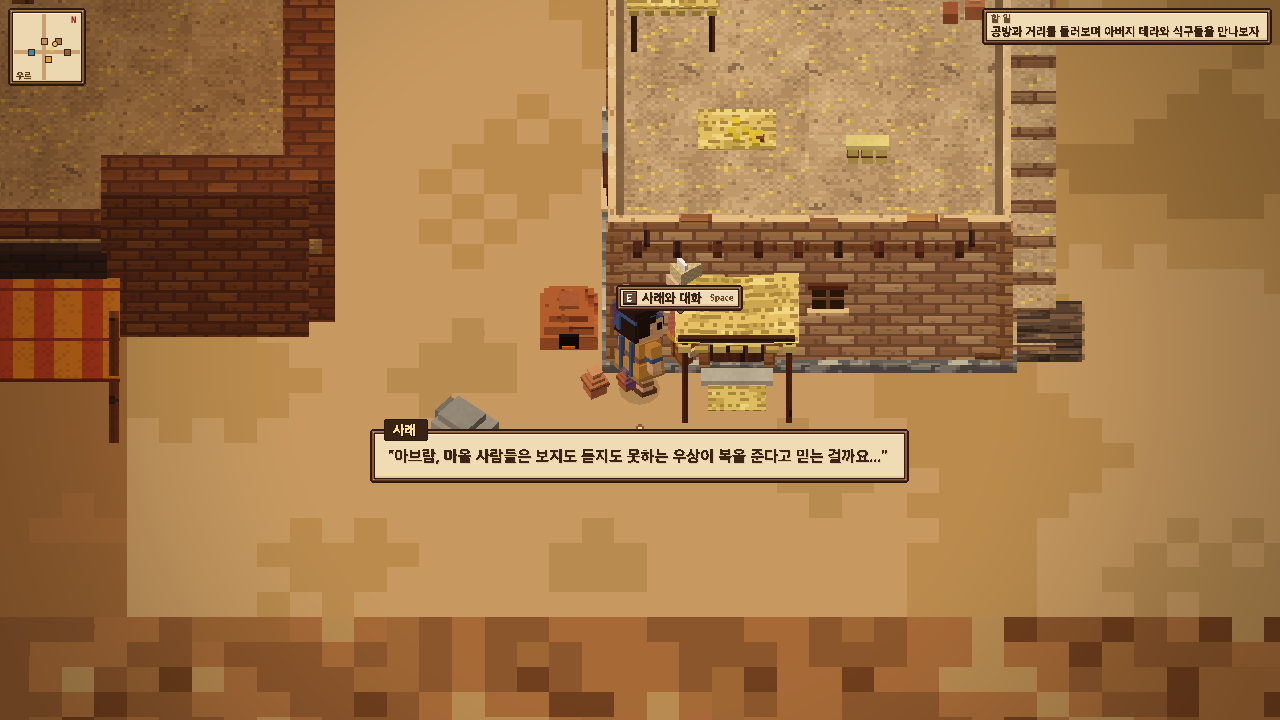
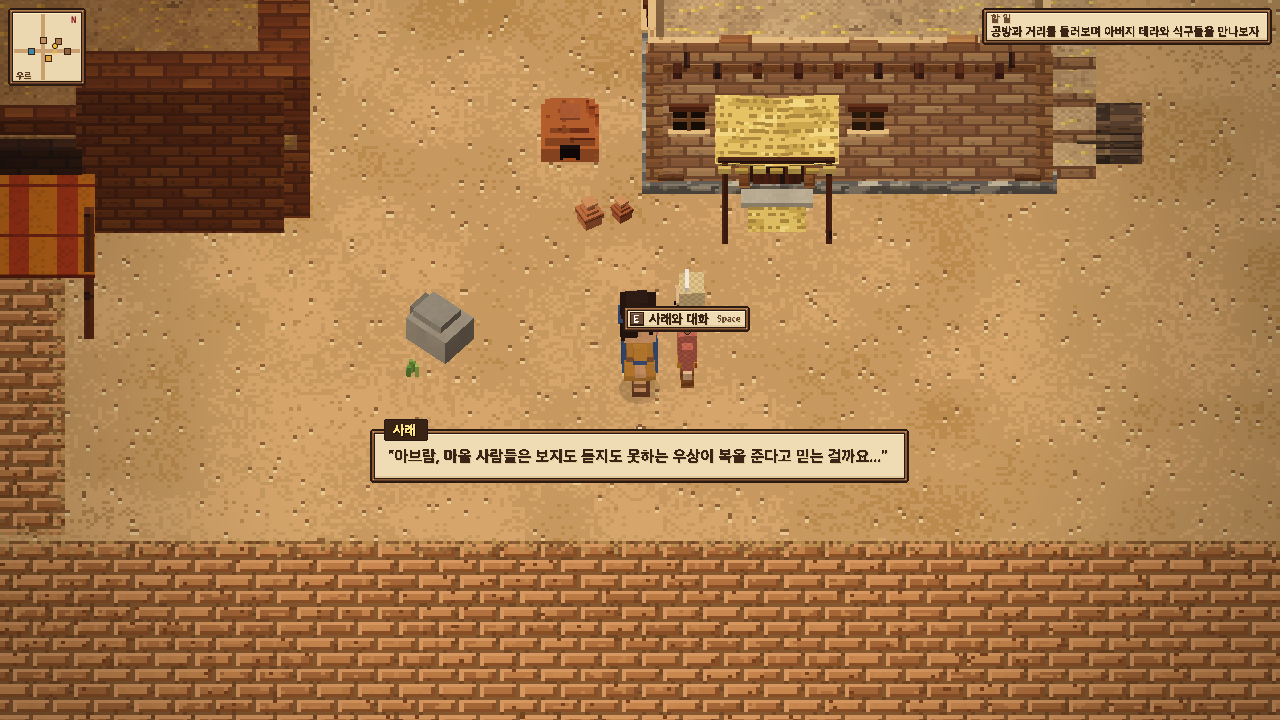
fix(world): 고해상도 TD=16 지면 텍스처 적용 및 건물-NPC 간격 분리

diff --git a/src/world/stages/ur.ts b/src/world/stages/ur.ts
@@ -25,13 +25,13 @@ export interface UrStage {
   actors: Actor[];
 }
 
-const UR_HALF = 48; // 96x96 광활한 고대 수메르 대지
+const UR_HALF = 40; // 80x80 메인 시가지 고해상도 지면 (TD=16 기준 1280x1280 노아 정통 고해상도 픽셀 지면!)
 
-/** 우르의 자연스러운 모래흙, 벽돌길, 자갈 지면 텍스처 평면 생성 */
+/** 우르의 고해상도 벽돌길, 사막 모래흙, 오아시스 초목 지면 텍스처 평면 생성 (노아 TD=16 벤치마크) */
 function buildUrGround(): THREE.Mesh {
-  const N = UR_HALF * 2 * 2; // 192x192 텍셀 해상도
+  const N = UR_HALF * 2 * TD; // 1280x1280 노아 정통 고해상도 지면!
   const px = new Px(N, N);
-  const toW = (idx: number) => -UR_HALF + (idx + 0.5) * (UR_HALF * 2 / N);
+  const toW = (idx: number) => -UR_HALF + (idx + 0.5) / TD;
   const reg = PAL_REGION.MESOPOTAMIA;
 
   for (let j = 0; j < N; j++) {
@@ -39,45 +39,92 @@ function buildUrGround(): THREE.Mesh {
     for (let i = 0; i < N; i++) {
       const x = toW(i);
 
-      // 기본 메소포타미아 황토/사막 모래 베이스
-      const nBase = fbm(x / 4, z / 4, 301, 2);
-      let c = ditherPick([reg.ground, 0xc49c68, 0xb88e54, 0xa57c44], nBase, i, j, 0.4);
+      // 1. 기본 대지: 메소포타미아 황토와 고운 사막 모래 (노아의 grassColor 기법을 사막 흙에 적용)
+      const nBase = fbm(x / 10, z / 10, 301, 2) * 0.45 + valueNoise(i / 16, j / 16, 302) * 0.35 + hash2(i, j, 303) * 0.2;
+      let c = ditherPick([reg.ground, 0xd2a874, 0xc49c68, 0xb88e54, 0xa87d46], nBase, i, j, 0.32);
 
-      // 도로 구역 (중앙 동서 도로: z: 1 ~ 6, x: -30 ~ 30)
-      if (z >= 1.0 && z <= 6.2 && Math.abs(x) < 32) {
-        const nRoad = valueNoise(i / 2, j / 2, 401);
-        c = ditherPick([reg.brick, 0x8a5830, 0xa46c3c, reg.ground], nRoad, i, j, 0.2);
-        // 벽돌 틈새 디테일
-        if (hash2(i, j, 11) < 0.08) c = 0x6e4020;
+      // 모래알 및 미세 자갈 스펙클
+      const hGrit = hash2(i, j, 305);
+      if (hGrit < 0.012) c = 0x8a623c;
+      else if (hash2(i, j - 1, 305) < 0.012) c = 0xe4cc9c;
+
+      // 2. 동서 대로 (z: 1.5 ~ 6.0, |x| < 26) 및 공방 진입로 (|x| < 2.6, z: -8.0 ~ 1.5)
+      const isEastWestRoad = z >= 1.5 && z <= 5.8 && Math.abs(x) < 25.5;
+      const isWorkshopPath = Math.abs(x) < 2.5 && z >= -7.5 && z <= 1.5;
+      const isRoadArea = isEastWestRoad || isWorkshopPath;
+
+      if (isRoadArea) {
+        const roadEdgeDist = isEastWestRoad
+          ? Math.min(z - 1.5, 5.8 - z, 25.5 - Math.abs(x))
+          : Math.min(x - (-2.5), 2.5 - x, z - (-7.5), 1.5 - z);
+
+        if (roadEdgeDist > 0.08) {
+          // 벽돌 패턴 (cellW: 10, cellH: 5 텍셀 = 가로 62cm, 세로 31cm 고대 소성 벽돌)
+          const cellW = 10, cellH = 5;
+          const row = Math.floor(j / cellH);
+          const shiftX = (row % 2) * (cellW / 2);
+          const col = Math.floor((i + shiftX) / cellW);
+          const li = (i + shiftX) % cellW;
+          const lj = j % cellH;
+
+          // 벽돌 틈새 줄눈
+          if (li === 0 || lj === 0) {
+            c = hash2(i, j, 411) < 0.2 ? 0x6e4828 : 0x845a34;
+          } else {
+            // 벽돌 색상 변량 (가마에서 구워진 벽돌마다 다른 황토/테라코타 톤)
+            const brickTones = [0xb87c4a, 0xae7244, 0xc68a56, 0xa2683c];
+            const tone = brickTones[Math.floor(hash2(col, row, 412) * brickTones.length)];
+            // 입체감 베벨 (상/좌측 밝음, 하/우측 어두움)
+            if (li === 1 || lj === 1) c = 0xd49a68;
+            else if (li === cellW - 1 || lj === cellH - 1) c = 0x86502a;
+            else {
+              const nBrick = valueNoise(i / 2, j / 2, 413);
+              c = nBrick > 0.65 ? 0xc28652 : tone;
+            }
+            if (hash2(i, j, 414) < 0.025) c = 0x764220; // 흠집
+          }
+
+          // 도로 가장자리 풍화 마모
+          if (roadEdgeDist < 0.35 && hash2(i, j, 415) < (0.35 - roadEdgeDist) * 2.2) {
+            c = ditherPick([reg.ground, 0xb88e54, 0x8a623c], hash2(i, j, 416), i, j);
+          }
+        }
       }
 
-      // 공방 진입로 (x: -3 ~ 3, z: -8 ~ 1)
-      if (Math.abs(x) < 3.2 && z >= -8.0 && z <= 1.0) {
-        const nPath = valueNoise(i / 2, j / 2, 419);
-        c = ditherPick([reg.brick, 0x9c6838, 0xa46c3c], nPath, i, j, 0.3);
+      // 3. 서쪽 우물 광장 (x: -12.0, z: 3.5): 방사형 포석 + 오아시스 초목
+      const dWell = Math.hypot(x - (-12.0), z - 3.5);
+      if (dWell < 5.4) {
+        if (dWell < 2.6) {
+          // 우물 바로 주변: 젖은 판석 및 물기 머금은 바닥
+          const cellP = 8;
+          const cxP = Math.floor(i / cellP), cyP = Math.floor(j / cellP);
+          const liP = i % cellP, ljP = j % cellP;
+          if (liP === 0 || ljP === 0) {
+            c = 0x4a3a2a; // 젖은 흙 줄눈
+          } else {
+            const stoneTones = [0x9a9484, 0xa8a090, 0x8c8676, 0xb2aa98];
+            c = stoneTones[Math.floor(hash2(cxP, cyP, 511) * 4)];
+            if (liP === 1 || ljP === 1) c = 0xc0b8a4;
+            if (hash2(i, j, 512) < 0.08) c = PAL.water[0]; // 튄 물방울
+          }
+        } else {
+          // 우물 바깥 잔디 및 대추야자 잎 그늘 (노아의 grassColor)
+          const nGrass = fbm(x * 2, z * 2, 521, 2);
+          if (nGrass > 0.40) {
+            c = ditherPick([PAL.grass[2], PAL.grass[3], PAL.dryGrass[1], reg.ground], nGrass, i, j, 0.4);
+            if (hash2(i, j, 523) < 0.02) c = PAL.grass[4]; // 풀싹
+          }
+        }
       }
 
-      // 서쪽 우물 광장 (x: -12, z: 3.5, r: 4.5)
-      const dWell = Math.hypot(x - (-12), z - 3.5);
-      if (dWell < 4.8) {
-        const nWell = fbm(x * 2, z * 2, 501, 2);
-        // 물기 머금은 짙은 흙과 작은 오아시스 잔디 흔적
-        c = dWell < 2.8
-          ? ditherPick([PAL.dirt[0], PAL.dirt[1], PAL.water[0]], nWell, i, j, 0.5)
-          : ditherPick([reg.ground, PAL.dryGrass[1], PAL.grass[2]], nWell, i, j, 0.4);
-      }
-
-      // 남쪽 시장 광장 (x: 4, z: 12)
-      if (x >= -4 && x <= 16 && z >= 8 && z <= 16) {
+      // 4. 남쪽 장터 (x: -2 ~ 12, z: 8.5 ~ 13.5): 단단히 다져진 마당 + 짚과 향신료 흔적
+      if (x >= -3.5 && x <= 13.5 && z >= 8.2 && z <= 13.5) {
         const nMarket = fbm(x * 1.5, z * 1.5, 601, 2);
-        c = ditherPick([0xc89868, reg.brick, PAL.dirt[2], 0xdeaa74], nMarket, i, j, 0.35);
-      }
-
-      // 외곽 거친 자갈과 바위 지대 노이즈
-      const dCenter = Math.hypot(x, z);
-      if (dCenter > 28) {
-        const nWild = fbm(x / 6, z / 6, 701, 2);
-        if (nWild > 0.6) c = hash2(i, j, 99) < 0.4 ? PAL.stone[1] : 0x8a623c;
+        if (nMarket > 0.48) {
+          c = ditherPick([0xc29462, 0xd4a872, 0xaf7e4e, 0x9e6e40], nMarket, i, j, 0.35);
+          if (hash2(i, j, 603) < 0.03) c = PAL.straw[1]; // 흩뿌려진 짚
+          if (hash2(i, j, 604) < 0.015) c = 0xa43828; // 석류/향신료 얼룩
+        }
       }
 
       px.set(i, j, c);
@@ -202,19 +249,19 @@ export function buildUrStage(): UrStage {
   col.addBox(WX, WZ - 2.2, 1.6, 1.4);
 
   // ─────────────────────────────────────────────────────────────
-  // 5. 이웃 가옥들 및 골목길 (밀도 높은 고대 도시감)
+  // 5. 이웃 가옥들 및 골목길 (밀도 높은 고대 도시감, 가옥-NPC 충분한 간격 확보)
   // ─────────────────────────────────────────────────────────────
-  // 동쪽 이웃집 1 (데라 가족 안채: x: 13.5, z: -6.5)
-  P.house(b, col, 13.5, -6.5, {
+  // 동쪽 이웃집 1 (데라 가족 안채: x: 14.5, z: -8.0, 앞마당을 넉넉히 비워 사래 배치)
+  P.house(b, col, 14.5, -8.0, {
     w: 6.2, d: 5.0, h: 3.0,
     style: 'brick',
     awning: 'stripeRed',
     stairs: 1,
   });
-  P.oven(b, col, 9.8, -4.8);
-  P.woodpile(b, col, 17.2, -4.6, Math.PI / 2);
-  P.pot(b, 10.2, -3.5, 0.9);
-  P.pot(b, 10.7, -3.6, 0.7, PAL.clay[1]);
+  P.oven(b, col, 10.2, -6.5);
+  P.woodpile(b, col, 18.5, -6.5, Math.PI / 2);
+  P.pot(b, 10.5, -4.8, 0.9);
+  P.pot(b, 11.0, -4.9, 0.7, PAL.clay[1]);
 
   // 서쪽 가옥 (x: -17.5, z: -5.5)
   P.house(b, col, -17.5, -5.5, {
@@ -241,24 +288,23 @@ export function buildUrStage(): UrStage {
   P.rock(b, col, -7.5, 1.2, 0.7);
   P.rock(b, col, 8.2, -2.5, 0.8);
   P.rock(b, col, -18.2, 4.5, 0.6);
-  P.tuft(b, -8.2, 1.8);
-  P.tuft(b, -6.5, 2.2);
+  P.tuft(b, -7.0, 2.2);
   P.tuft(b, 7.8, -1.8);
 
   // ─────────────────────────────────────────────────────────────
-  // 6. 서쪽 광장: 우물과 종려나무(대추야자) 쉼터
+  // 6. 서쪽 광장: 우물과 종려나무(대추야자) 쉼터 (중앙 마당을 넓혀 롯이 시원하게 보이도록 배치)
   // ─────────────────────────────────────────────────────────────
-  P.well(b, col, -12.0, 3.5);
-  P.palmTree(b, col, -15.5, 1.5);
-  P.palmTree(b, col, -8.5, 1.8);
-  P.palmTree(b, col, -15.2, 6.2);
-  P.palmTree(b, col, -9.0, 6.5);
-  P.bench(b, col, -11.8, 6.2);
-  P.bench(b, col, -8.8, 4.0);
-  P.pot(b, -10.2, 2.5, 0.95);
-  P.pot(b, -13.8, 2.7, 0.8, PAL.clay[2]);
-  P.torchPost(b, col, -12.0, 0.8);
-  LAMPS.push({ x: -12.0, y: 1.8, z: 0.8, kind: 'torch' });
+  P.well(b, col, -12.5, 3.5);
+  P.palmTree(b, col, -16.5, 1.0);
+  P.palmTree(b, col, -6.5, 0.5);
+  P.palmTree(b, col, -16.5, 6.0);
+  P.palmTree(b, col, -6.5, 6.5);
+  P.bench(b, col, -12.5, 6.0);
+  P.bench(b, col, -12.5, 1.0);
+  P.pot(b, -14.5, 2.0, 0.95);
+  P.pot(b, -14.5, 5.0, 0.8, PAL.clay[2]);
+  P.torchPost(b, col, -14.5, 3.5);
+  LAMPS.push({ x: -14.5, y: 1.8, z: 3.5, kind: 'torch' });
 
   // ─────────────────────────────────────────────────────────────
   // 7. 남쪽 장터: 활기찬 수메르 장터 (과일, 토기, 양탄자 가판대)
@@ -306,36 +352,40 @@ export function buildUrStage(): UrStage {
   root.add(ziggurat);
 
   // ─────────────────────────────────────────────────────────────
-  // 10. 주요 3D 복셀 NPC들
+  // 10. 주요 3D 복셀 NPC들 (건물·소품과 겹치지 않는 탁 트인 마당에 배치)
   // ─────────────────────────────────────────────────────────────
   const actors: Actor[] = [];
 
+  // 아버지 데라: 공방 앞마당 (차양 기둥과 2m 이상 떨어진 넓은 공방 마당)
   const terahActor = new Actor('terah', 'terah');
-  terahActor.root.position.set(-2.0, 0, 2.2);
+  terahActor.root.position.set(-2.5, 0, 0.8);
   terahActor.face(Math.PI * 0.25);
   root.add(terahActor.root);
-  col.addCircle(-2.0, 2.2, 0.45);
+  col.addCircle(-2.5, 0.8, 0.45);
   actors.push(terahActor);
 
+  // 조카 어린 롯: 우물가 동쪽 잔디 쉼터 (우물·종려나무와 3.5m 이상 떨어진 햇살 드는 잔디밭)
   const lotActor = new Actor('lot', 'lot');
-  lotActor.root.position.set(-10.5, 0, 3.5);
+  lotActor.root.position.set(-8.5, 0, 3.5);
   lotActor.face(Math.PI * 0.5);
   root.add(lotActor.root);
-  col.addCircle(-10.5, 3.5, 0.45);
+  col.addCircle(-8.5, 3.5, 0.45);
   actors.push(lotActor);
 
+  // 아내 사래: 안채 앞 넓은 마당 (가옥 외벽·차양과 4m 이상 떨어진 탁 트인 마당)
   const saraiActor = new Actor('sarai', 'sarai');
-  saraiActor.root.position.set(11.5, 0, -4.0);
+  saraiActor.root.position.set(12.0, 0, -1.5);
   saraiActor.face(-Math.PI * 0.25);
   root.add(saraiActor.root);
-  col.addCircle(11.5, -4.0, 0.45);
+  col.addCircle(12.0, -1.5, 0.45);
   actors.push(saraiActor);
 
+  // 수메르 장터 상인: 장터 광장 북쪽 (가판대 차양 밖, 도로에서 내려오는 손님을 맞는 탁 트인 자리)
   const merchantActor = new Actor('merchant', 'citizen');
-  merchantActor.root.position.set(4.5, 0, 9.0);
+  merchantActor.root.position.set(4.0, 0, 7.8);
   merchantActor.face(0);
   root.add(merchantActor.root);
-  col.addCircle(4.5, 9.0, 0.45);
+  col.addCircle(4.0, 7.8, 0.45);
   actors.push(merchantActor);
 
   root.add(b.build());

diff --git a/src/systems/actions/book1Actions.ts b/src/systems/actions/book1Actions.ts
@@ -60,7 +60,7 @@ export function setupBook1Actions(ctx: Book1ActionContext): void {
   // 아버지 데라 (공방 앞마당)
   interactions.add({
     id: 'npc_terah',
-    pos: () => ({ x: WX - 2.0, z: 2.2 }),
+    pos: () => ({ x: -2.5, z: 0.8 }),
     height: 1.2,
     r: 1.8,
     label: () => (placedAxeOnBigIdol ? '데라와 담판 짓기' : '아버지 데라와 대화'),
@@ -87,7 +87,7 @@ export function setupBook1Actions(ctx: Book1ActionContext): void {
   // 조카 어린 롯 (우물가 쉼터)
   interactions.add({
     id: 'npc_lot',
-    pos: () => ({ x: -10.5, z: 3.5 }),
+    pos: () => ({ x: -8.5, z: 3.5 }),
     height: 1.0,
     r: 1.8,
     label: () => '조카 롯과 대화',
@@ -103,7 +103,7 @@ export function setupBook1Actions(ctx: Book1ActionContext): void {
   // 아내 사래 (동쪽 안채 앞마당)
   interactions.add({
     id: 'npc_sarai',
-    pos: () => ({ x: 11.5, z: -4.0 }),
+    pos: () => ({ x: 12.0, z: -1.5 }),
     height: 1.1,
     r: 1.8,
     label: () => '사래와 대화',
@@ -119,7 +119,7 @@ export function setupBook1Actions(ctx: Book1ActionContext): void {
   // 수메르 장터 상인
   interactions.add({
     id: 'npc_merchant',
-    pos: () => ({ x: 4.5, z: 9.0 }),
+    pos: () => ({ x: 4.0, z: 7.8 }),
     height: 1.1,
     r: 1.8,
     label: () => '장터 상인과 대화',
